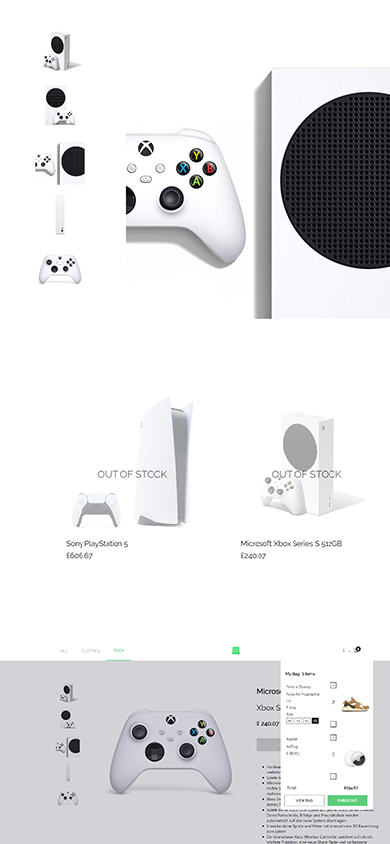
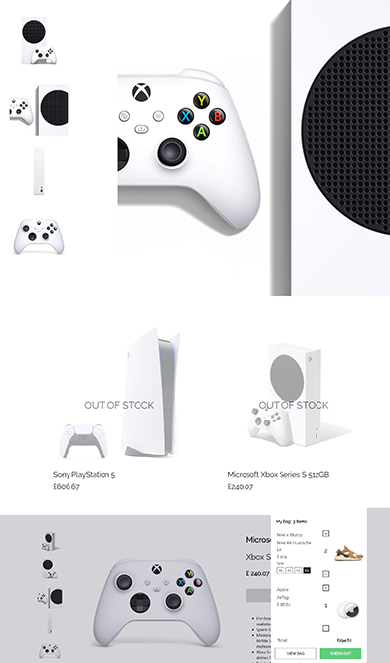
UI fixes

diff --git a/styles/globals.css b/styles/globals.css
@@ -249,4 +249,7 @@ a {
   .iphone-one {
     top: 0%;
   }
+  .misc-text {
+    top: 68%;
+  }
 }
